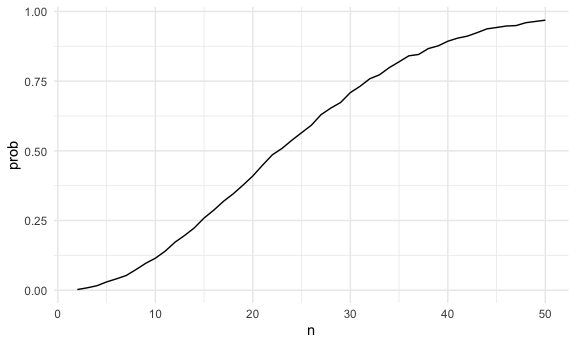
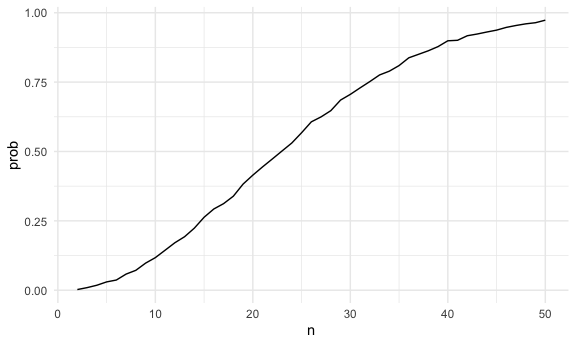
problem2 1st plot

diff --git a/p8105_hw5_lx2346.md b/p8105_hw5_lx2346.md
@@ -33,16 +33,16 @@ sim_res
     ## # A tibble: 49 × 2
     ##        n   prob
     ##    <int>  <dbl>
-    ##  1     2 0.0023
-    ##  2     3 0.0084
-    ##  3     4 0.0159
-    ##  4     5 0.0296
-    ##  5     6 0.0406
-    ##  6     7 0.0525
-    ##  7     8 0.0736
-    ##  8     9 0.0962
-    ##  9    10 0.115 
-    ## 10    11 0.140 
+    ##  1     2 0.0024
+    ##  2     3 0.0093
+    ##  3     4 0.0179
+    ##  4     5 0.0299
+    ##  5     6 0.0367
+    ##  6     7 0.0581
+    ##  7     8 0.0717
+    ##  8     9 0.0976
+    ##  9    10 0.117 
+    ## 10    11 0.144 
     ## # ℹ 39 more rows
 
 ### Make a plot showing the probability as a function of group size, and comment on your results.
@@ -90,22 +90,22 @@ sim_res_2
     ## # A tibble: 5,000 × 3
     ##     iter mu_hat p_value
     ##    <int>  <dbl>   <dbl>
-    ##  1     1   1.00  0.996 
-    ##  2     2   2.35  0.709 
-    ##  3     3   2.82  0.842 
-    ##  4     4   3.69  0.755 
-    ##  5     5   4.11  0.235 
-    ##  6     6   6.42  0.657 
-    ##  7     7   5.91  0.179 
-    ##  8     8   9.38  0.209 
-    ##  9     9  10.9   0.0449
-    ## 10    10  10.1   0.940 
+    ##  1     1   2.71 0.0442 
+    ##  2     2   4.38 0.00514
+    ##  3     3   2.36 0.502  
+    ##  4     4   3.83 0.860  
+    ##  5     5   5.49 0.619  
+    ##  6     6   6.96 0.284  
+    ##  7     7   8.91 0.0308 
+    ##  8     8   8.61 0.495  
+    ##  9     9   9.14 0.881  
+    ## 10    10  10.4  0.641  
     ## # ℹ 4,990 more rows
 
 ### Repeat the above for 𝜇={1,2,3,4,5,6}
 
 ``` r
-sim_res = 
+sim_res_3 = 
   expand_grid(
     n = c(1, 2, 3, 4, 5, 6),
     iter = 1:5000
@@ -117,16 +117,15 @@ sim_res =
 ### Make a plot showing the proportion of times the null was rejected (the power of the test) on the y axis and the true value of 𝜇 on the x axis.
 
 ``` r
-sim_res |>
+sim_res_3 |>
   group_by(n) |>
   summarize(power = mean(p_value < 0.05)) |>
   ggplot(aes(x = n, y = power)) +
   geom_line() +
   geom_point() +
   labs(x = "True Value of μ", y = "Power", title = "Power vs. True μ") +
-  scale_x_continuous(breaks = seq(1, 6, by = 1)) +
-  scale_y_continuous(breaks = seq(0.0012, 0.0020 , by = 0.0002)) +
-  theme(plot.title = element_text(hjust = 0.5))
+  theme(plot.title = element_text(hjust = 0.5)) +
+  scale_x_continuous(breaks = seq(1, 6, by = 1))
 ```
 
 <img src="p8105_hw5_lx2346_files/figure-gfm/unnamed-chunk-8-1.png" width="90%" />
